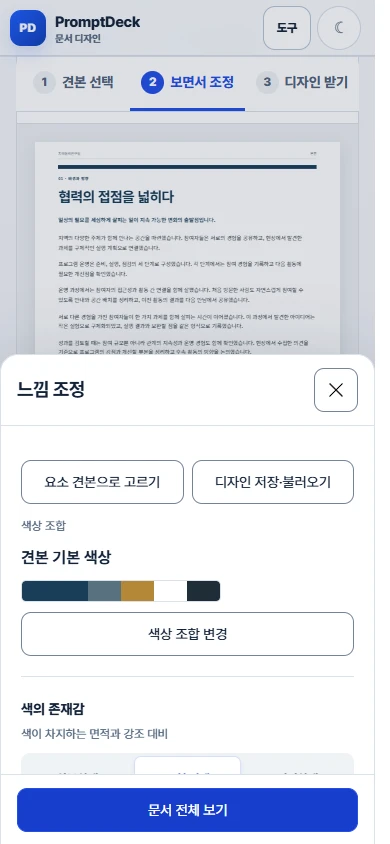
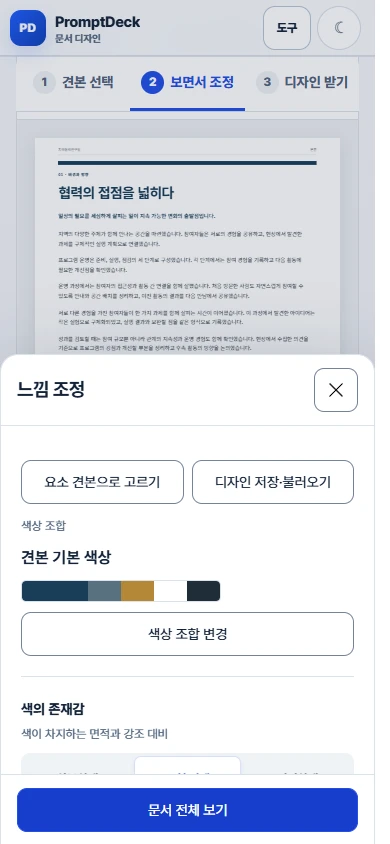
fix: respect production CSP in document exports

Changed region(s): [[0.1538, 0.154, 0.8308, 0.4313]]

diff --git a/src/document-design-export.js b/src/document-design-export.js
@@ -97,11 +97,9 @@
       doc.open();
       doc.write("<!doctype html><html lang='ko'><head><meta charset='utf-8'></head><body></body></html>");
       doc.close();
-      const base = doc.createElement("base");
-      base.href = document.baseURI;
       const style = doc.createElement("style");
       style.textContent = "html,body{margin:0;padding:0;background:transparent;color-scheme:light}body{width:max-content;}";
-      doc.head.append(base, style);
+      doc.head.append(style);
       await withSignal(Promise.all(["document-design-fonts.css", "document-design-pages.css", "document-design-variants.css", "document-design-layouts.css"].map((filename) => new Promise((resolve, reject) => {
         const current = [...document.querySelectorAll("link[rel='stylesheet']")].find((link) => new URL(link.href).pathname.endsWith(`/${filename}`));
         const link = doc.createElement("link");
@@ -140,6 +138,8 @@
         options.onProgress?.(`참고 이미지 ${index + 1}/${pageIds.length} · ${definition.label || definition.title || id}`);
         const original = renderer.renderPage(resolved.design, resolved.previewTokens, id);
         if (!(original instanceof HTMLElement)) throw new Error("문서 페이지를 표시하지 못했습니다.");
+        // Resolve image references before adoption; production forbids <base>.
+        original.querySelectorAll("img[src]").forEach((image) => { image.src = new URL(image.getAttribute("src"), document.baseURI).href; });
         stage.replaceChildren(original);
         await readyForCapture(renderer, original, doc, options.signal);
         checkCancelled(options.signal);

diff --git a/index.html b/index.html
@@ -6089,7 +6089,7 @@ appendix|^##\s+부록\s+([A-Z]\d+)\.\s*(.+)$</textarea>
   <script src="src/document-design-migration.js?v=1"></script>
   <script src="src/document-design-contract-v3.js?v=4"></script>
   <script src="src/document-design-renderer.js?v=6"></script>
-  <script src="src/document-design-export.js?v=3"></script>
+  <script src="src/document-design-export.js?v=4"></script>
   <script src="src/document-design-palette-modal.js?v=1"></script>
   <script src="src/document-design-layout-workbench.js?v=1"></script>
   <script src="src/document-design-studio.js?v=1"></script>
